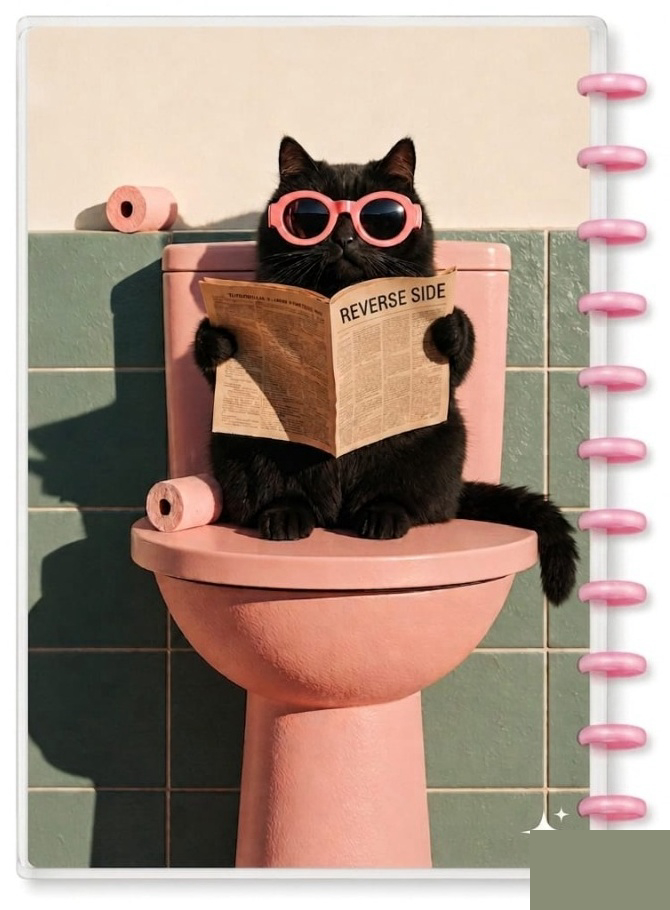
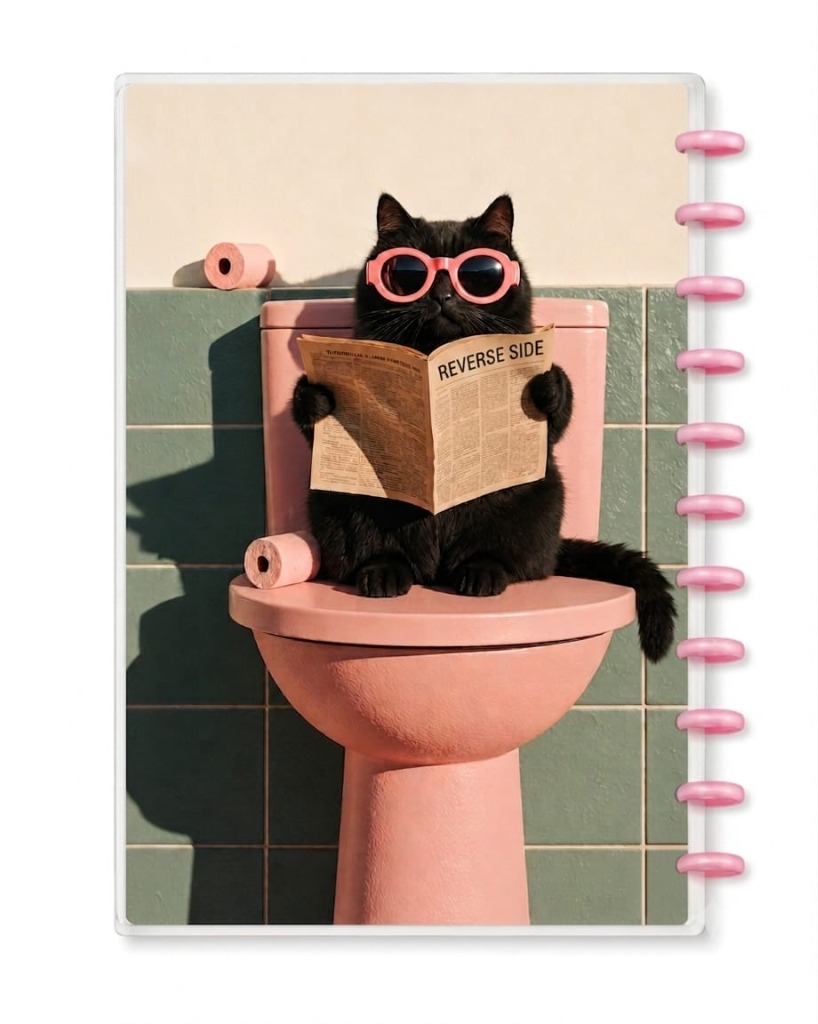
fix: replace yendo back cover with user uploaded image

diff --git a/scripts/swap_yendo_image.js b/scripts/swap_yendo_image.js
@@ -1,0 +1,15 @@
+const fs = require('fs');
+const path = require('path');
+
+function replaceImage() {
+    const src = "C:\\Users\\Leandro\\.gemini\\antigravity\\brain\\0afc3e0d-9578-4f83-8b21-763e810c9cb8\\media__1779752597729.jpg";
+    const dest = path.join(process.cwd(), "public", "images", "mockup_yendo_back.jpg");
+    
+    if (fs.existsSync(src)) {
+        fs.copyFileSync(src, dest);
+        console.log("Image swapped successfully!");
+    } else {
+        console.error("Source image not found!");
+    }
+}
+replaceImage();